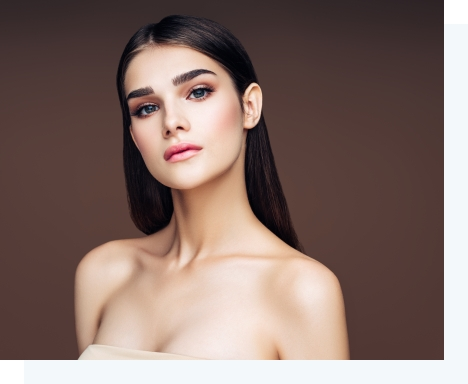
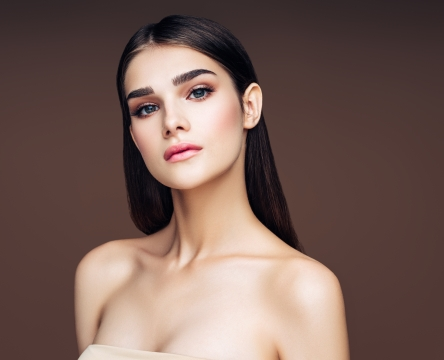
products

diff --git a/resources/assets/styles/components/shampoo.scss b/resources/assets/styles/components/shampoo.scss
@@ -6,10 +6,39 @@
   overflow: hidden;
   @media (max-width: 991px) {
     padding-bottom: 140px;
+    padding-top: 0;
   }
   h2 {
     position: absolute;
     white-space: nowrap;
+  }
+  &__mobile {
+    display: none;
+    h3 {
+      color: #4a3c3a;
+      font-size: 36px;
+      font-weight: 400;
+      line-height: 80px;
+    }
+    img {
+      @media (max-width: 575px) {
+        margin-right: -230px;
+      }
+    }
+    h2 {
+      color: #a5a1a1;
+      font-size: 64px !important;
+      font-weight: 400;
+      line-height: 80px !important;
+      position: relative !important;
+    }
+    @media (max-width: 991px) {
+      display: flex;
+      flex-direction: column;
+      justify-content: center;
+      align-items: center;
+      width: 100%;
+    }
   }
   &__right {
     display: flex;
@@ -18,6 +47,9 @@
     align-items: flex-end;
     position: relative;
     z-index: 12;
+    @media (max-width: 991px) {
+      display: none;
+    }
     &:after {
       content: "";
       width: 432px;
@@ -28,6 +60,9 @@
       position: absolute;
       z-index: -12;
       right: -100px;
+      @media (max-width: 991px) {
+        display: none;
+      }
     }
     img {
       margin-right: 20px;
@@ -46,6 +81,9 @@
   &__left {
     position: relative;
     z-index: 12;
+    @media (max-width: 991px) {
+      display: none;
+    }
     &:after {
       content: "";
       width: 331px;
@@ -77,6 +115,9 @@
     display: flex;
     justify-content: center;
     align-items: flex-end;
+    @media (max-width: 991px) {
+      display: none;
+    }
     h2 {
       color: #4a3c3a;
       font-size: 64px;

diff --git a/resources/assets/styles/components/hair-problem.scss b/resources/assets/styles/components/hair-problem.scss
@@ -32,10 +32,15 @@
       &:first-child {
         background-color: #f3f9fa;
         margin-right: 100px;
+        box-shadow: 2px 4px 51px 7px #f3f9fa;
+        @media (max-width: 575px) {
+          margin-right: 10px;
+        }
       }
       &:last-child {
         background-color: #fffbef;
         margin-right: 100px;
+        box-shadow: 2px 4px 51px 7px #fffbef;
         @media (max-width: 991px) {
           margin-right: 0;
         }
@@ -79,20 +84,30 @@
       &:first-child {
         background-color: #fffbef;
         margin-right: 100px;
+        box-shadow: 2px 4px 51px 7px #fffbef;
+        @media (max-width: 575px) {
+          margin-right: 10px;
+        }
       }
       &:nth-child(2) {
         background-color: #f3f9fa;
         margin-right: 100px;
+        box-shadow: 2px 4px 51px 7px #f3f9fa;
         @media (max-width: 991px) {
           margin-right: 0;
         }
       }
       &:nth-child(3) {
         background-color: #eff8ed;
+        box-shadow: 2px 4px 51px 7px #eff8ed;
         margin-right: 100px;
+        @media (max-width: 575px) {
+          margin-right: 10px;
+        }
       }
       &:nth-child(4) {
         background-color: #fcf1eb;
+        box-shadow: 2px 4px 51px 7px #fcf1eb;
         @media (max-width: 991px) {
           margin-right: 0;
         }

diff --git a/resources/assets/styles/components/treatments.scss b/resources/assets/styles/components/treatments.scss
@@ -3,6 +3,9 @@
   padding-bottom: 100px;
   overflow: hidden;
   position: relative;
+  @media (max-width: 575px) {
+    padding-bottom: 65px;
+  }
   .mission {
     padding: 0;
     position: relative;
@@ -25,6 +28,11 @@
     h2 {
       @media (max-width: 991px) {
         font-size: 48px !important;
+      }
+      @media (max-width: 575px) {
+        font-size: 36px !important;
+        white-space: normal;
+        text-align: center;
       }
     }
     p {
@@ -91,6 +99,11 @@
       font-size: 64px;
       font-weight: 400;
       line-height: 80px;
+      @media (max-width: 575px) {
+        font-size: 36px !important;
+        white-space: normal;
+        text-align: center;
+      }
     }
     @media (max-width: 991px) {
       position: relative;

diff --git a/resources/assets/styles/components/page-hero.scss b/resources/assets/styles/components/page-hero.scss
@@ -64,6 +64,25 @@
       height: 100%;
       max-width: 490px;
       max-height: 625px;
+      position: relative;
+      &:after {
+        content: "";
+        position: absolute;
+        display: inherit;
+        width: 100%;
+        height: 100%;
+        top: 25px;
+        left: 25px;
+        background: #f3f9fa;
+        max-width: 490px;
+        max-height: 625px;
+        @media (max-width: 575px) {
+          max-width: 300px;
+        }
+        @media (max-width: 400px) {
+          max-width: 220px;
+        }
+      }
       @media (max-width: 575px) {
         max-width: 300px;
       }

diff --git a/resources/assets/styles/components/future.scss b/resources/assets/styles/components/future.scss
@@ -64,6 +64,17 @@
     }
     img {
       width: 100%;
+      position: relative;
+      &:before {
+        content: "";
+        position: absolute;
+        display: inherit;
+        width: 100%;
+        height: 100%;
+        top: 25px;
+        left: 25px;
+        background-color: #f3f9fa;
+      }
     }
   }
   p {

diff --git a/resources/assets/styles/components/main-video.scss b/resources/assets/styles/components/main-video.scss
@@ -87,9 +87,6 @@
       position: relative;
       padding: 0;
       z-index: 9;
-      @media (max-width: 575px) {
-        max-height: 270px;
-      }
     }
     @media (max-width: 991px) {
       padding-top: 40px;
